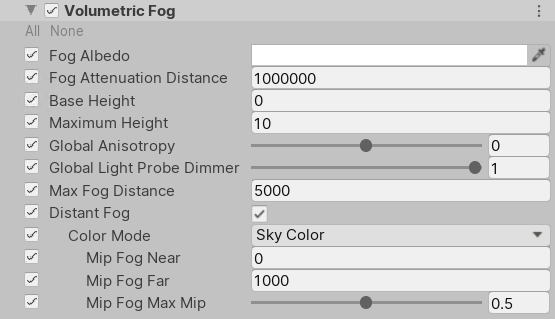
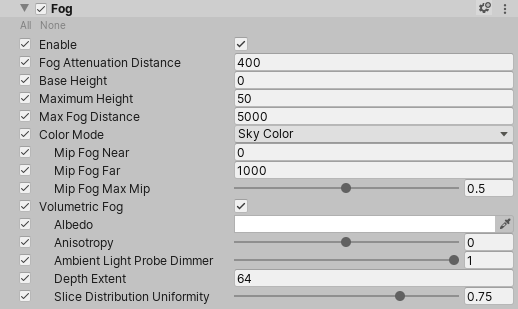
Update fog documentation with new Fog volume component. (#4527)
* Update fog documentation with new Fog volume component.

* Update Volumetric-Lighting.md

* Missing file

* Update Upgrading-from-2019.2-to-2019.3.md

* Update Atmospheric-Scattering.md

* Update Atmospheric-Scattering.md

* Update Override-Fog.md

* Small update

diff --git a/com.unity.render-pipelines.high-definition/Documentation~/Override-Fog.md b/com.unity.render-pipelines.high-definition/Documentation~/Override-Fog.md
@@ -1,23 +1,23 @@
-# Volumetric Fog
+# Fog
 
-Volumetric fog is the most advanced implementation of fog available in the High Definition Render Pipeline (HDRP). It realistically simulates the interaction of lights with fog, which allows for physically-plausible rendering of glow and crepuscular rays, which are beams of light that stream through gaps in objects like clouds and trees from a central point.
+The High Definition Render Pipeline (HDRP) implements a multi-layered fog composed of an exponential component, whose density varies exponentially with distance from the Camera and height HDRP allows you to add an optional volumetric component to this exponential fog that realistically simulates the interaction of lights with fog, which allows for physically-plausible rendering of glow and crepuscular rays, which are beams of light that stream through gaps in objects like clouds and trees from a central point.
 
-## Using Volumetric Fog
+## Using Fog
 
-**Volumetric Fog** uses the [Volume](Volumes.html) framework, so to enable and modify **Volumetric Fog** properties, you must add an **Volumetric Fog** override to a [Volume](Volumes.html) in your Scene. To add **Volumetric Fog** to a Volume:
+The **Fog** uses the [Volume](Volumes.html) framework, so to enable and modify **Fog** properties, you must add  **Fog** override to a [Volume](Volumes.html) in your Scene. To add **Fog** to a Volume:
 
 1. In the Scene or Hierarchy view, select a GameObject that contains a Volume component to view it in the Inspector.
-2. In the Inspector, navigate to **Add Override > Fog** and click on **Volumetric Fog**.
+2. In the Inspector, navigate to **Add Override > Fog** and click on **Fog**.
 
-After you add an **Volumetric  Fog** override, you must set the Volume to use **Volumetric Fog**. The [Visual Environment](Override-Visual-Environment.html) override controls which type of fog the Volume uses. In the **Visual Environment** override, navigate to the **Fog** section and set the **Type** to **Volumetric Fog**. HDRP now renders **Volumetric Fog** for any Camera this Volume affects.
+After you add an **Fog** override, you must enable it in the override itself. In the override, Check the **Enable** property. HDRP now renders **Fog** for any Camera this Volume affects.
 
-Within the Scene, there is usually a single global Volume that contains a Visual Environment override. Having a single global Visual Environment means that Unity uses the same __Sky Type__ and __Fog Type__ everywhere in the Scene. You can still use local Volumes with different __Sky Types__ and __Fog Types__, but the transition between them is obvious and instantaneous. If you want to use multiple Visual Environments in different Volumes in your Scene, it is best to make the transition on Camera cuts.
+At this point, the Scene contains global fog. However, the effect might not suit your needs. To override the default property with your own chosen values, follow the steps in the [Customizing Global Fog](#CustomizingGlobalFog) section.
 
-At this point, the Scene contains global volumetric fog. However, the effect is not visible because the default global fog density is very low. To override the default property with your own chosen values, follow the steps in the [Customizing Global Volumetric Fog](#CustomizingGlobalVolumetricFog) section.
+The High Definition Render Pipeline evaluates volumetric lighting on a 3D grid mapped to the volumetric section of the frustum. The resolution of the grid is quite low (it is 240x135x64 using the default quality setting at 1080p), so it's important to keep the dimensions of the frustum as small as possible to maintain high quality. Adjust the **Depth Extent** parameter to define the maximum range for the volumetric fog relative to the Camera’s frustum.
 
-<a name="CustomizingGlobalVolumetricFog"></a>
+<a name="CustomizingGlobalFog"></a>
 
-## Customizing Global Volumetric Fog
+## Customizing Global Fog
 
 Use global volumetric fog, rather than local fog, because it provides the best performance and the best quality.
 
@@ -26,7 +26,7 @@ Global fog is a height fog which has two logical components:
 - The region at a distance closer to the Camera than the **Base Height** is a constant (homogeneous) fog
 - The region at a distance further than the **Base Height** is the exponential fog.
 
-The **Volumetric Fog** override of the active Volume controls the appearance of the global fog. It includes two main properties that you can use to override the default density.
+The **Fog** override of the active Volume controls the appearance of the global fog. It includes two main properties that you can use to override the default density.
 
 * **Fog Attenuation Distance**: Controls the global density of the fog.
 * **Maximum Height**: Controls the density falloff with height; allows you to have a greater density near the ground and a lower density higher up.
@@ -37,21 +37,22 @@ The **Volumetric Fog** override of the active Volume controls the appearance of 
 
 | Property                 | Function                                                     |
 | :----------------------- | :----------------------------------------------------------- |
-| **Fog Albedo** | Sets the fog color. Volumetric Fog tints lighting, so the fog scatters light to this color. It only tints lighting emitted by Lights behind or within the fog. This means that it does not tint lighting that reflects off GameObjects behind or within the fog - reflected lighting only gets dimmer (fades to black) as fog density increases. For example, if you shine a Light at a white wall behind fog with red Single Scattering Albedo, the fog looks red. If you shine a Light at a white wall and view it from the other side of the fog, the fog darkens the light but doesn’t tint it red. |
+| **Enable** | Enables the fog. |
 | **Fog Attenuation Distance** | Controls the density at the base of the fog and determines how far you can see through the fog in meters. At this distance, the fog has absorbed and out-scattered 63% of background light. |
 | **Base Height**          | The height of the boundary between the constant (homogeneous) fog and the exponential fog. |
 | **Maximum Height**   | Controls the rate of falloff for the height fog in meters. Higher values stretch the fog vertically. At this height , the falloff reduces the initial base density by 63%. |
-| **Global Anisotropy** | Controls the angular distribution of scattered light. 0 is isotropic, 1 is forward scattering, and -1 is backward scattering. Note that non-zero values have a moderate performance impact. High values may have compatibility issues with the Enable Reprojection for Volumetrics Frame Setting. This is an experimental property that HDRP applies to both global and local fog. |
-| **Global Light Probe Dimmer** | Reduces the intensity of the global Light Probe that the sky generates. |
 | **Max Fog Distance** | Controls the distance (in meters) when applying fog to the skybox or background. Also determines the range of the Distant Fog. For optimal results, set this to be larger than the Camera’s Far value for its Clipping Plane. Otherwise, a discrepancy occurs between the fog on the Scene’s GameObjects and on the skybox. Note that the Camera’s Far Clipping Plane is flat whereas HDRP applies fog within a sphere surrounding the Camera. |
-| **Distant Fog** | <a name="DistantFog"></a>Activates the fog with precomputed lighting behind the volumetric section of the Camera’s frustum. The fog stretches from the maximum Distance Range in the Volumetric Lighting Controller to the Max Fog Distance. |
 | **Color Mode** | Use the drop-down to select the mode HDRP uses to calculate the color of the fog.<br />&#8226; **Sky Color**: HDRP shades the fog with a color it samples from the sky cubemap and its mipmaps.<br />&#8226; **Constant Color**: HDRP shades the fog with the color you set manually in the **Constant Color** field that appears when you select this option. |
 | **- Mip Fog Near**    | The distance (in meters) from the Camera that HDRP stops sampling the lowest resolution mipmap for the fog color.<br />This property only appears when you select **Sky Color** from the **Color Mode** drop-down. |
 | **- Mip Fog Far**     | The distance (in meters) from the Camera that HDRP starts sampling the highest resolution mipmap for the fog color.<br />This property only appears when you select **Sky Color** from the **Color Mode** drop-down. |
 | **- Mip Fog Max Mip** | Use the slider to set the maximum mipmap that HDRP uses for the mip fog. This defines the mipmap that HDRP samples for distances greater than **Mip Fog Far**.<br />This property only appears when you select **Sky Color** from the **Color Mode** drop-down. |
 | **- Constant Color**  | Use the color picker to select the color of the fog.<br />This property only appears when you select **Constant Color** from the **Color Mode** drop-down. |
-
-
+| **Volumetric Fog** | Enables Volumetric Fog. |
+| **Albedo** | Sets the fog color. Volumetric Fog tints lighting, so the fog scatters light to this color. It only tints lighting emitted by Lights behind or within the fog. This means that it does not tint lighting that reflects off GameObjects behind or within the fog - reflected lighting only gets dimmer (fades to black) as fog density increases. For example, if you shine a Light at a white wall behind fog with red Single Scattering Albedo, the fog looks red. If you shine a Light at a white wall and view it from the other side of the fog, the fog darkens the light but doesn’t tint it red. |
+| **Anisotropy** | Controls the angular distribution of scattered light. 0 is isotropic, 1 is forward scattering, and -1 is backward scattering. Note that non-zero values have a moderate performance impact. High values may have compatibility issues with the Enable Reprojection for Volumetrics Frame Setting. This is an experimental property that HDRP applies to both global and local fog. |
+| **Ambient Light Probe Dimmer** | Reduces the intensity of the global Ambient Light Probe that the sky generates. |
+| **Depth Extent** | Determines the distance (in meters) from the Camera at which the volumetric fog section of the frustum ends. |
+| **Slice Distribution Uniformity** | Controls the uniformity of the distribution of slices along the Camera's focal axis. HDRP samples volumetric fog at multiple distances from the Camera. Each of these sample areas is called a slice. A value of 0 makes the distribution of slices exponential (the spacing between the slices increases with the distance from the Camera) which gives greater precision near to the Camera, and lower precision further away. A value of 1 results in a uniform distribution which gives the same level of precision regardless of the distance to the Camera. |
 
 
 ## Light-specific Properties

diff --git a/com.unity.render-pipelines.high-definition/Documentation~/Override-Visual-Environment.md b/com.unity.render-pipelines.high-definition/Documentation~/Override-Visual-Environment.md
@@ -1,12 +1,12 @@
 # Visual Environment
 
-The Visual Environment Volume component override specifies the **Sky Type** and **Fog Type** that HDRP renders in the Volume.
+The Visual Environment Volume component override specifies the **Sky Type** that HDRP renders in the Volume.
 
 ## Using the Visual Environment
 
 The **Visual Environment** uses the [Volume](Volumes.html) framework, so to enable and modify **Visual Environment** properties, you must add a **Visual Environment** override to a [Volume](Volumes.html) in your Scene.
 
-The **Visual Environment** override comes as default when you create a **Scene Settings** GameObject (Menu: **GameObject > Rendering > Scene Settings**). You can also manually add a **Visual Environment** override to any [Volume](Volumes.html). To add **Visual Environment** to a Volume:
+The **Visual Environment** override comes as default when you create a **Scene Settings** GameObject (Menu: **GameObject > Volumes> Sky and Fog Volume**). You can also manually add a **Visual Environment** override to any [Volume](Volumes.html). To add **Visual Environment** to a Volume:
 
 1. In the Scene or Hierarchy view, select a GameObject that contains a Volume component to view it in the Inspector.
 2. In the Inspector, navigate to **Add Override** and click on **Visual Environment**. You can now use the **Visual Environment** override to control the sky and fog for this Volume.
@@ -19,18 +19,12 @@ The **Visual Environment** override comes as default when you create a **Scene S
 
 | **Property**     | **Description**                                              |
 | ---------------- | ------------------------------------------------------------ |
-| **Type**         | Use the drop-down to select the type of sky that HDRP renders when this Volume affects the Camera that is inside the Volume. This list automatically updates when you create a custom Sky. <br />&#8226; **None**: HDRP does not render a sky for Cameras in this Volume.<br />&#8226; [Gradient Sky](Override-Gradient-Sky.html): Renders the top, middle, and bottom sections of the sky using three separate color zones. HDRP controls the size of these color zones using the Gradient Sky’s **Gradient Diffusion** property.<br />&#8226; [HDRI Sky](Override-HDRI-Sky.html): Uses a cubemap texture to represent the entire sky.<br />&#8226; [Procedural Sky](Override-Procedural-Sky.html): Generates a sky based on properties such as, **Sky Tint**, **Ground Color**, and **Sun Size**. |
+| **Type**         | Use the drop-down to select the type of sky that HDRP renders when this Volume affects the Camera that is inside the Volume. This list automatically updates when you create a custom Sky. <br />&#8226; **None**: HDRP does not render a sky for Cameras in this Volume.<br />&#8226; [Gradient Sky](Override-Gradient-Sky.html): Renders the top, middle, and bottom sections of the sky using three separate color zones. HDRP controls the size of these color zones using the Gradient Sky’s **Gradient Diffusion** property.<br />&#8226; [HDRI Sky](Override-HDRI-Sky.html): Uses a cubemap texture to represent the entire sky.<br /> |
 | **Ambient Mode** | Use the drop-down to select the mode this Volume uses to process ambient light.<br />&#8226; **Static**: Ambient light comes from the baked sky assigned to the **Static Lighting Sky** property of the [Static Lighting Sky](Static-Lighting-Sky.html) component in your Scene. This light affects both real-time and baked global illumination. For information on how to set up static environment lighting, see the [Environment Lighting documentation](Environment-Lighting.html#BakingEnvironment).<br />&#8226; **Dynamic**: Ambient light comes from the sky that is set in the **Sky** > **Type** property of this override. This means that ambient light can change in real time depending on the current Volume affecting the Camera. If you use baked global illumination, changes to the environment lighting only affect GameObjects exclusively lit using Ambient Probes. If you use real-time global illumination, changes to the environment lighting affect both lightmaps and Ambient Probes. |
-
-### Fog
-
-| **Property** | **Description**                                              |
-| ------------ | ------------------------------------------------------------ |
-| **Type**     | The type of sky that HDRP renders when this Volume affects the  Camera. This list automatically updates when you write a new custom fog.<br />&#8226; **None**: HDRP does not process fog for Cameras in this Volume.<br />&#8226; [Linear Fog](Override-Linear-Fog.html): Produces fog that gets more dense linearly with distance from the Camera.<br />&#8226; [Exponential Fog](Override-Exponential-Fog.html): Produces fog that gets more dense exponentially with distance from the Camera.<br />&#8226; [Volumetric Fog](Override-Volumetric-Fog.html): Produces fog that interacts with light realistically to allow for physically plausible rendering. |
 
 ## Changing sky settings
 
-After you have set your **Sky Type** and **Fog Type**, if you want to override the default settings, you need to create an override for them on the Volume. For example, if you set the **Sky Type** to **Gradient Sky**, click **Add component overrides** on your Volume and add a **Gradient Sky** override. Then you can disable, or remove, the **Procedural Sky** override because the Visual Environment ignores it and uses the **Gradient Sky** instead. To disable the override, disable the checkbox to the left of the **Procedural Sky** title . To remove the override, click the drop-down menu to the right of the title and select **Remove** .
+After you have set your **Sky Type**, if you want to override the default settings, you need to create an override for them on the Volume. For example, if you set the **Sky Type** to **Gradient Sky**, click **Add component overrides** on your Volume and add a **Gradient Sky** override. Then you can disable, or remove, the **Procedural Sky** override because the Visual Environment ignores it and uses the **Gradient Sky** instead. To disable the override, disable the checkbox to the left of the **Procedural Sky** title . To remove the override, click the drop-down menu to the right of the title and select **Remove** .
 
 On the [Gradient Sky](Override-Gradient-Sky.html) override itself, you can enable the checkboxes next to each property to override the property with your own values. For example, enable the checkbox next to the **Middle** property and use the color picker to change the color to pink.
 

diff --git a/com.unity.render-pipelines.high-definition/Documentation~/Atmospheric-Scattering.md b/com.unity.render-pipelines.high-definition/Documentation~/Atmospheric-Scattering.md
@@ -6,7 +6,8 @@ Examples of natural effects that cause atmospheric scattering include fog, cloud
 
 The High Definition Render Pipeline (HDRP) simulates a [fog](HDRP-Features.html#FogOverview.html) effect by overlaying a color onto objects, depending on their distance from the Camera. This is good for simulating fog or mist in outdoor environments. You can use it to hide the clipping of far away GameObjects, which is useful if you reduce a Camera’s far clip plane to enhance performance.
 
-In HDRP, you can choose between different types of fog; [Linear](Override-Linear-Fog.html), [Exponential](Override-Exponential-Fog.html), or [Volumetric](Override-Volumetric-Fog.html). All Material types (Lit or Unlit) react correctly to the fog. HDRP calculates fog density depending on the type of fog, the distance from the Camera, and the world space height.
+HDRP implements an exponential fog, where density varies exponentially with distance from the Camera. All Material types (Lit or Unlit) react correctly to the fog. HDRP calculates fog density depending on the distance from the Camera, and the world space height.
 
-Instead of using a constant color, Linear and Exponential fog can use the background sky as a source for color. In this case, HDRP samples the color from different mipmaps of the cubemap generated from the current sky settings. The chosen mip varies linearly between the lowest resolution and the highest resolution mipmaps, depending on the distance from the Camera and the values in the fog component’s **Mip Fog** properties. You can also choose to limit the resolution of the highest mip that HDRP uses. Doing this adds a volumetric effect to the fog and is much cheaper to use with Linear or Exponential fog than it is to use the Volumetric fog type.
+Instead of using a constant color, fog can use the background sky as a source for color. In this case, HDRP samples the color from different mipmaps of the cubemap generated from the current sky settings. The chosen mip varies linearly between the lowest resolution and the highest resolution mipmaps, depending on the distance from the Camera and the values in the fog component’s **Mip Fog** properties. You can also choose to limit the resolution of the highest mip that HDRP uses. Doing this adds a volumetric effect to the fog and is much cheaper to use than actual volumetric fog.
 
+Optionally, you can enabled volumetric fog for GameObjects close to the camera. It realistically simulates the interaction of lights with fog, which allows for physically-plausible rendering of glow and crepuscular rays, which are beams of light that stream through gaps in objects like clouds and trees from a central point.

diff --git a/com.unity.render-pipelines.high-definition/Documentation~/HDRP-Features.md b/com.unity.render-pipelines.high-definition/Documentation~/HDRP-Features.md
@@ -202,11 +202,7 @@ In HDRP, you set up the sky inside a [Volume](Volumes.html), so you can change s
 
 ![](Images/HDRPFeatures-Fog.png)
 
-In HDRP, you set up fog, inside a [Volume](Volumes.html),so you can change fog settings, or even the fog type itself, depending on the position of the Camera in the Scene. You can set the color of the fog yourself or use the color of the sky. HDRP fog affects Materials with both opaque and transparent surfaces. HDRP includes the following built-in fog types for you to use in your Unity Project:
-
-- [Exponential Fog](Override-Exponential-Fog.html): Increases fog density exponentially with view distance and world space height. This fog type offers a more realistic fog effect than linear fog, but is more resource intensive. 
-- [Linear Fog](Override-Linear-Fog.html): Increases fog density linearly with view distance and world space height. This is useful for applying fog to rendering large low-priority areas of your Scene because it is less resource intensive than the other fog types. 
-- [Volumetric Fog](Override-Volumetric-Fog.html): Volumetric fog realistically simulates lights that interact with fog, such as glow and crepuscular rays. Volumetric fog works with Directional, Point, and Spot lights.
+In HDRP, you set up fog, inside a [Volume](Volumes.html),so you can change fog settings, or even the fog type itself, depending on the position of the Camera in the Scene. You can set the color of the fog yourself or use the color of the sky. HDRP fog affects Materials with both opaque and transparent surfaces. HDRP implements an exponential [fog](Override-Fog.html) with optional volumetric effects.
 
 
 ### Light Layers 

diff --git a/com.unity.render-pipelines.high-definition/Documentation~/Volumetric-Lighting.md b/com.unity.render-pipelines.high-definition/Documentation~/Volumetric-Lighting.md
@@ -11,4 +11,4 @@ To toggle and customize Volumetric Lighting in an [HDRP Asset](HDRP-Asset.html):
 2. If you want to increase the resolution of the volumetrics, enable the **Increase resolution of volumetrics** checkbox. Volumetric lighting is an expensive effect, and this option can potentially increase the cost of volumetric lighting by up to eight times.
 3. In the **Default Frame Settings** section, under the **Lighting** subsection, make sure you enable **Atmospheric Scattering** and **Volumetric** if they are not already.
    ![](Images/VolumetricLighting2.png)
-4. If you want to enable reprojection support, check **Reprojection for Volumetrics** . This option improves the lighting quality in the Scene by taking previous frames into account when calculating the lighting for the current frame. Currently, this option is not compatible with dynamic lights, so you may encounter ghosting artifacts behind moving Lights. Additionally, using high values for **Global Anisotropy** in the [Volumetric Fog](Override-Volumetric-Fog.html) Volume override may cause flickering Shadows.
+4. If you want to enable reprojection support, check **Reprojection for Volumetrics**. This option improves the lighting quality in the Scene by taking previous frames into account when calculating the lighting for the current frame. Currently, this option is not compatible with dynamic lights, so you may encounter ghosting artifacts behind moving Lights. Additionally, using high values for **Global Anisotropy** in the [Fog](Override-Fog.html) Volume override may cause flickering Shadows.

diff --git a/com.unity.render-pipelines.high-definition/Documentation~/Upgrading-from-2019.2-to-2019.3.md b/com.unity.render-pipelines.high-definition/Documentation~/Upgrading-from-2019.2-to-2019.3.md
@@ -17,6 +17,10 @@ To install the Procedural Sky override into a 2019.3 Project:
 
 The last step is important because, if you haven't installed the sample and load a Scene that uses a Procedural Sky, then the Procedural Sky data in the Volume is lost. Unity does not serialize this so you can close and re-open Unity to recover your settings.
 
+## Fog
+
+HDRP has deprecated the Linear Fog, Exponential Fog, Volumetric Fog, and Volumetric Fog Quality overrides in 2019.3 and replaced them with a single [Fog](Override-Fog.html) override. This override acts as an exponential fog with a height component by default and allows you to add additional volumetric fog. To automatically update old fog overrides to the new system, select **Edit > Render Pipeline > Upgrade Fog Volume Components**. Note that it can not safely convert all cases so you may need to upgrade some manually.
+
 ## Area Lights
 
 Before Unity 2019.3, HDRP synchronized the width and height of an area [Light](Light-Component.html)'s **Emissive Mesh** with the [localScale](https://docs.unity3d.com/ScriptReference/Transform-localScale.html) of its Transform. From Unity 2019.3, HDRP uses the [lossyScale](https://docs.unity3d.com/ScriptReference/Transform-lossyScale.html) to make the **Emissive Mesh** account for the scale of the parent Transforms. This means that you must resize every area Light in your Unity Project according to the scale of its parent.
